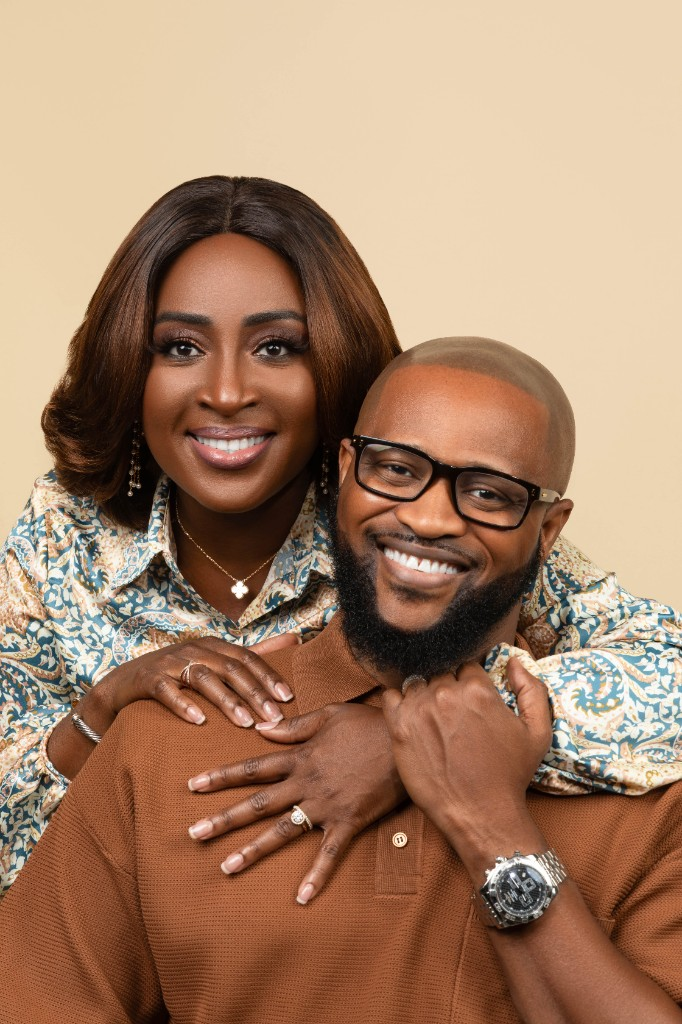
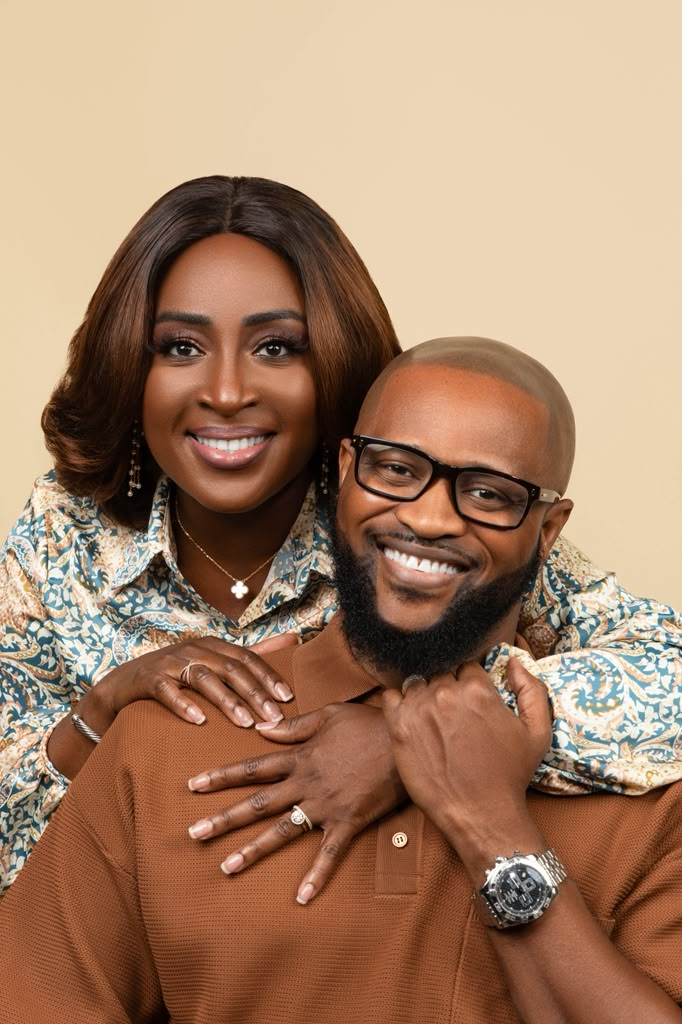
Add the Agormeda couple portrait to the missions lead page.
Uses the new photo in the hero and bio column alongside his solo portrait.

Changed region(s): [[0.0, 0.75, 0.0308, 0.7812]]

diff --git a/src/app/about/our-north-american-missions-lead/page.tsx b/src/app/about/our-north-american-missions-lead/page.tsx
@@ -13,7 +13,7 @@ export const metadata = pageMetadata({
   description:
     "Meet Apostle Emmanuel Agormeda, Apostle over Royalhouse Chapel churches across North America.",
   path: "/about/our-north-american-missions-lead",
-  image: images.apostleAgormeda.src,
+  image: images.apostleAgorMina.src,
 });
 
 export default async function MissionsLeadPage() {
@@ -36,31 +36,53 @@ export default async function MissionsLeadPage() {
       />
       <PageHero
         title="Apostle Emmanuel Agormeda"
-        image={images.apostleAgormeda}
-        objectPosition="50% 15%"
+        image={images.apostleAgorMina}
+        objectPosition="50% 28%"
         breadcrumb={[{ label: "Our North American Missions Lead" }]}
       />
 
       <Section tone="cream" spacing="lg">
-        <Container className="grid items-start gap-10 lg:grid-cols-[minmax(0,18rem)_1fr]">
-          <div className="relative aspect-[3/4] overflow-hidden rounded-media">
-            <Image
-              src={images.apostleAgormeda.src}
-              alt={images.apostleAgormeda.alt}
-              fill
-              sizes="320px"
-              className="object-cover object-top"
-            />
+        <Container className="grid items-start gap-10 lg:grid-cols-[minmax(0,22rem)_minmax(0,1fr)] lg:gap-16">
+          <div className="mx-auto flex w-full max-w-[22rem] flex-col gap-5 lg:mx-0">
+            <figure>
+              <div className="relative aspect-[3/4] overflow-hidden rounded-media shadow-elevate">
+                <Image
+                  src={images.apostleAgorMina.src}
+                  alt={images.apostleAgorMina.alt}
+                  fill
+                  sizes="(min-width: 1024px) 352px, min(100vw - 2rem, 352px)"
+                  quality={90}
+                  className="object-cover object-[center_18%]"
+                  priority
+                />
+              </div>
+              <figcaption className="mt-3 text-center text-[0.875rem] leading-relaxed text-navy-900/65">
+                Apostle Emmanuel Agormeda and Rev. Mrs. Willhemina Agormeda
+              </figcaption>
+            </figure>
+            <figure>
+              <div className="relative aspect-[3/4] overflow-hidden rounded-media shadow-elevate">
+                <Image
+                  src={images.apostleAgormeda.src}
+                  alt={images.apostleAgormeda.alt}
+                  fill
+                  sizes="(min-width: 1024px) 352px, min(100vw - 2rem, 352px)"
+                  quality={90}
+                  className="object-cover object-top"
+                />
+              </div>
+            </figure>
           </div>
-          <div>
+          <div className="lg:pt-1">
             <p className="text-[1.125rem] font-semibold tracking-[0.03em] text-gold-600">
               Apostle, North American Missions
             </p>
-            <h2 className="mt-3 font-display text-4xl text-navy-900">
+            <h2 className="mt-3 font-display text-[clamp(2rem,4vw,3rem)] leading-[1.05] text-navy-900">
               Apostle Emmanuel Agormeda
             </h2>
+            <span aria-hidden="true" className="mt-5 block h-px w-14 bg-gold-400" />
             {apostle ? (
-              <p className="mt-5 text-[1.05rem] leading-relaxed text-navy-900/75">{apostle.bio}</p>
+              <p className="mt-6 type-body-lg leading-relaxed text-navy-900/75">{apostle.bio}</p>
             ) : null}
           </div>
         </Container>
